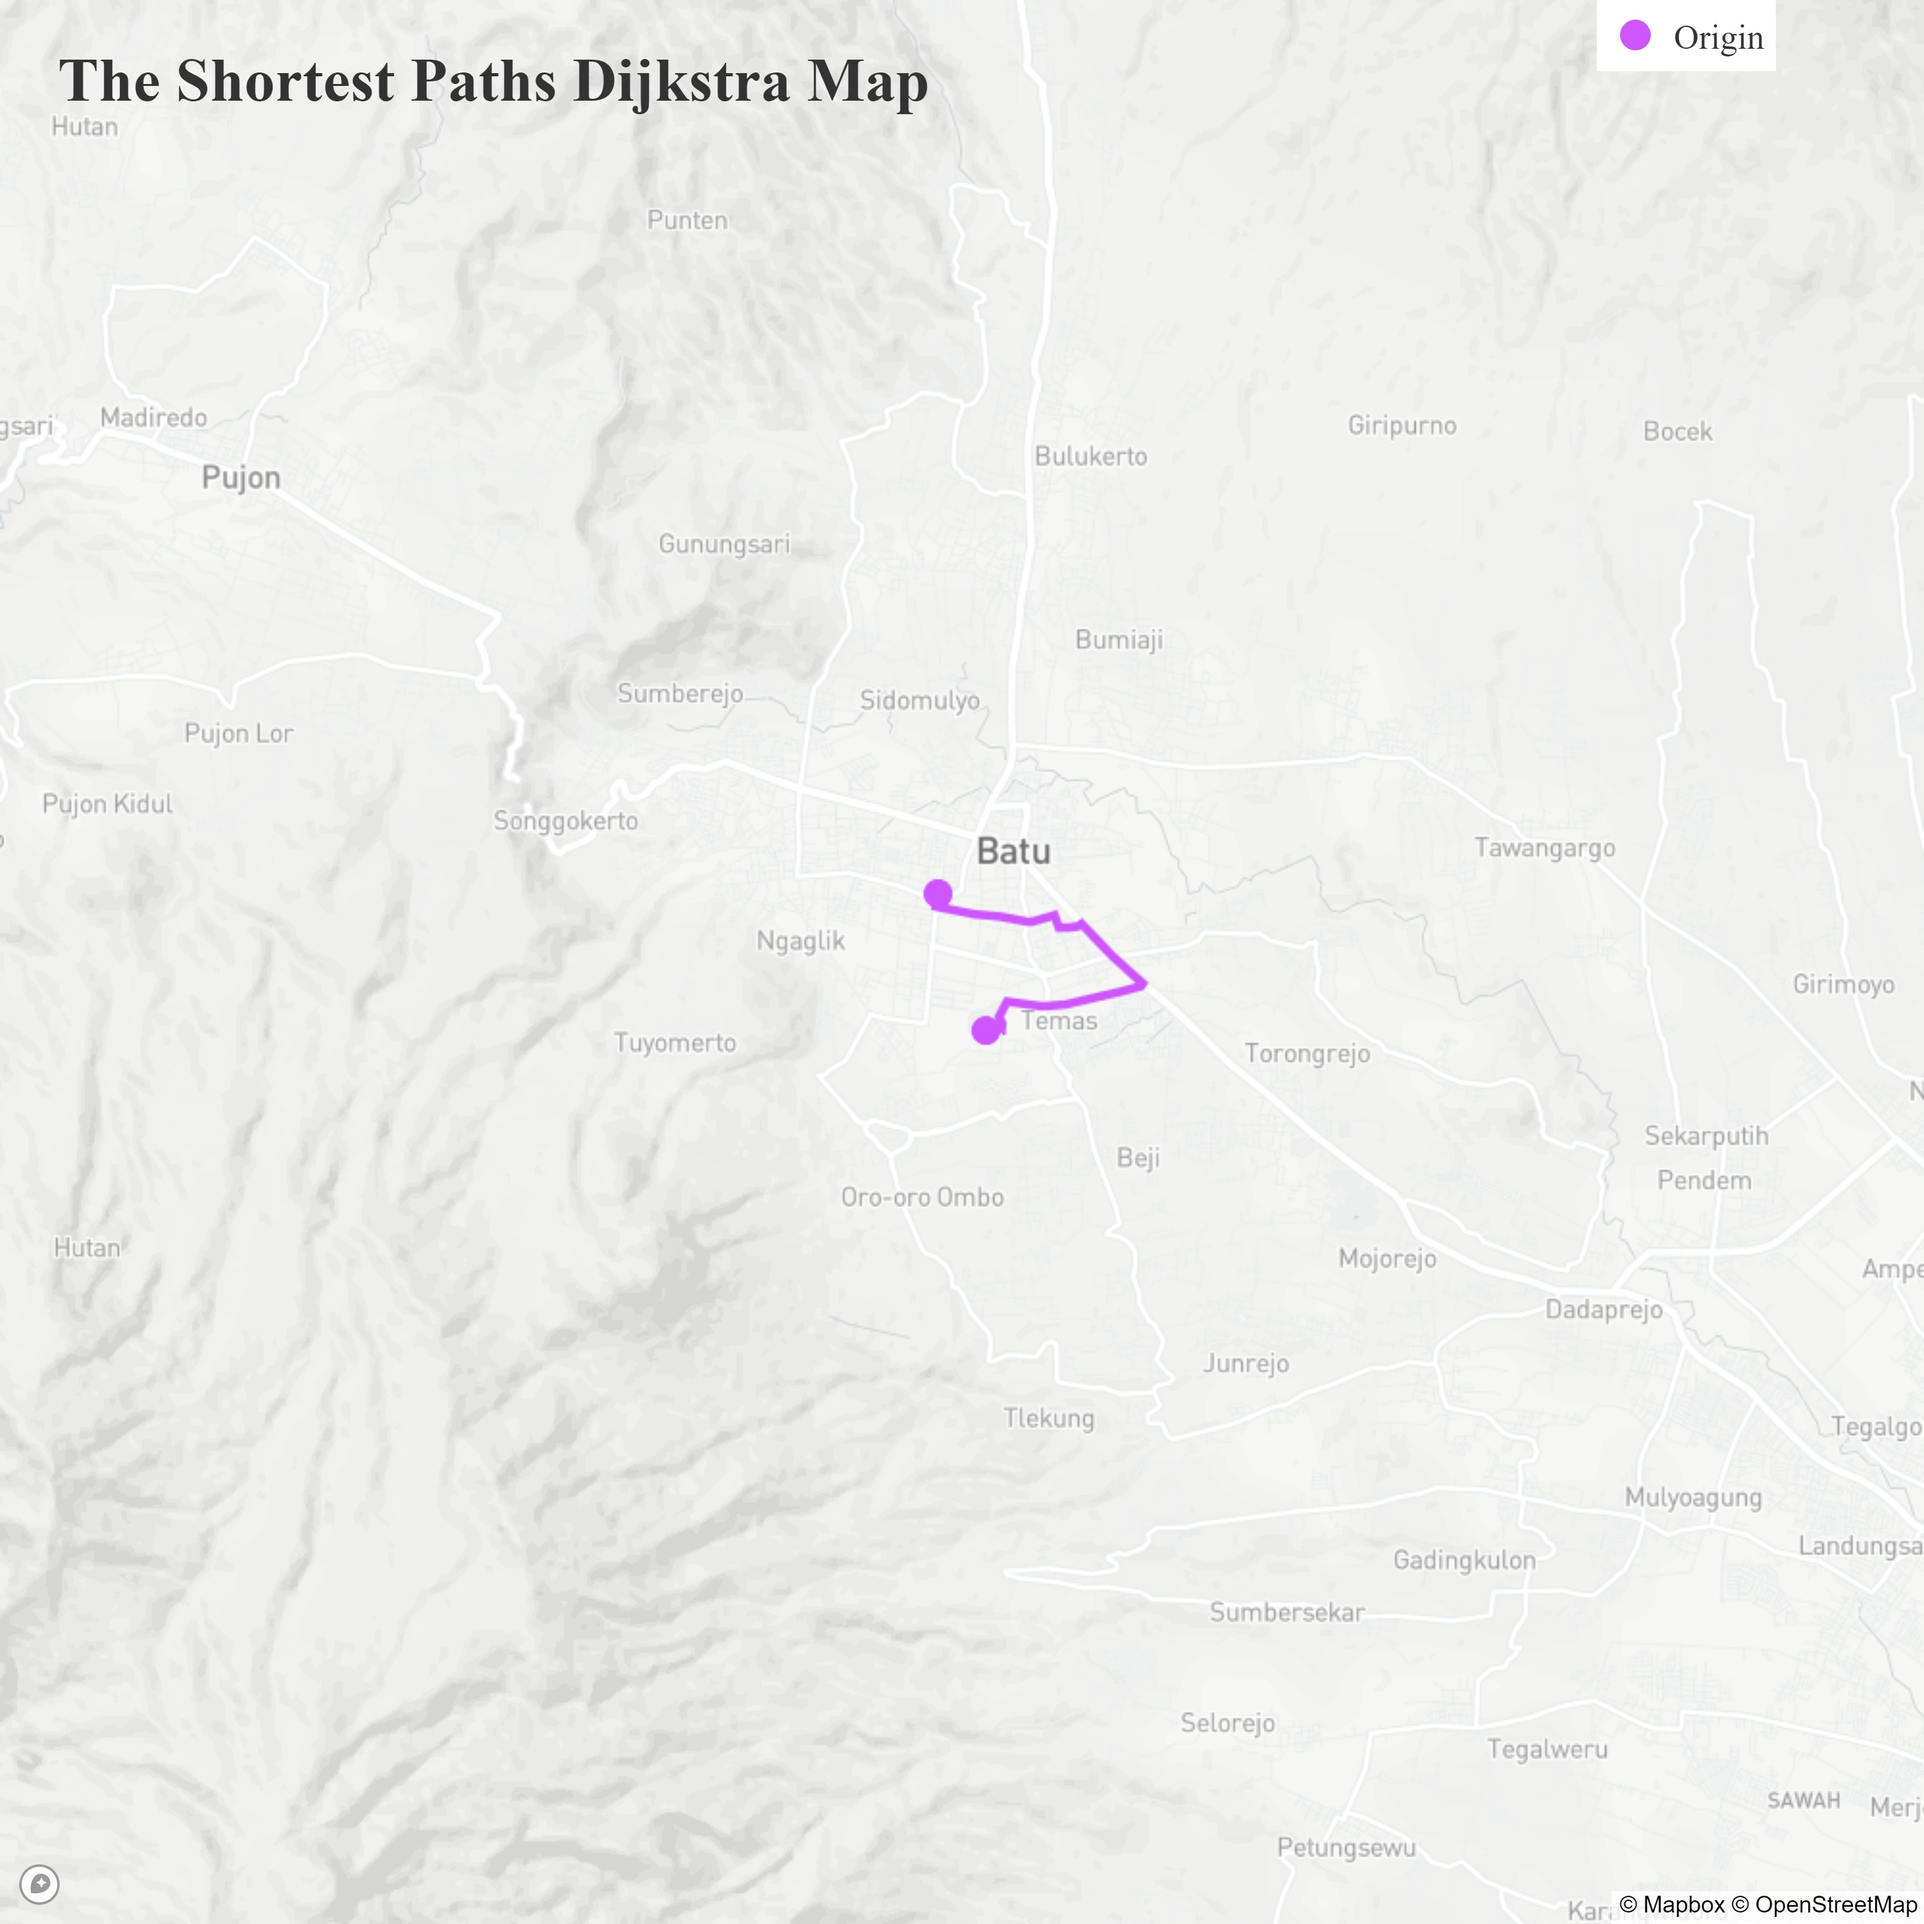
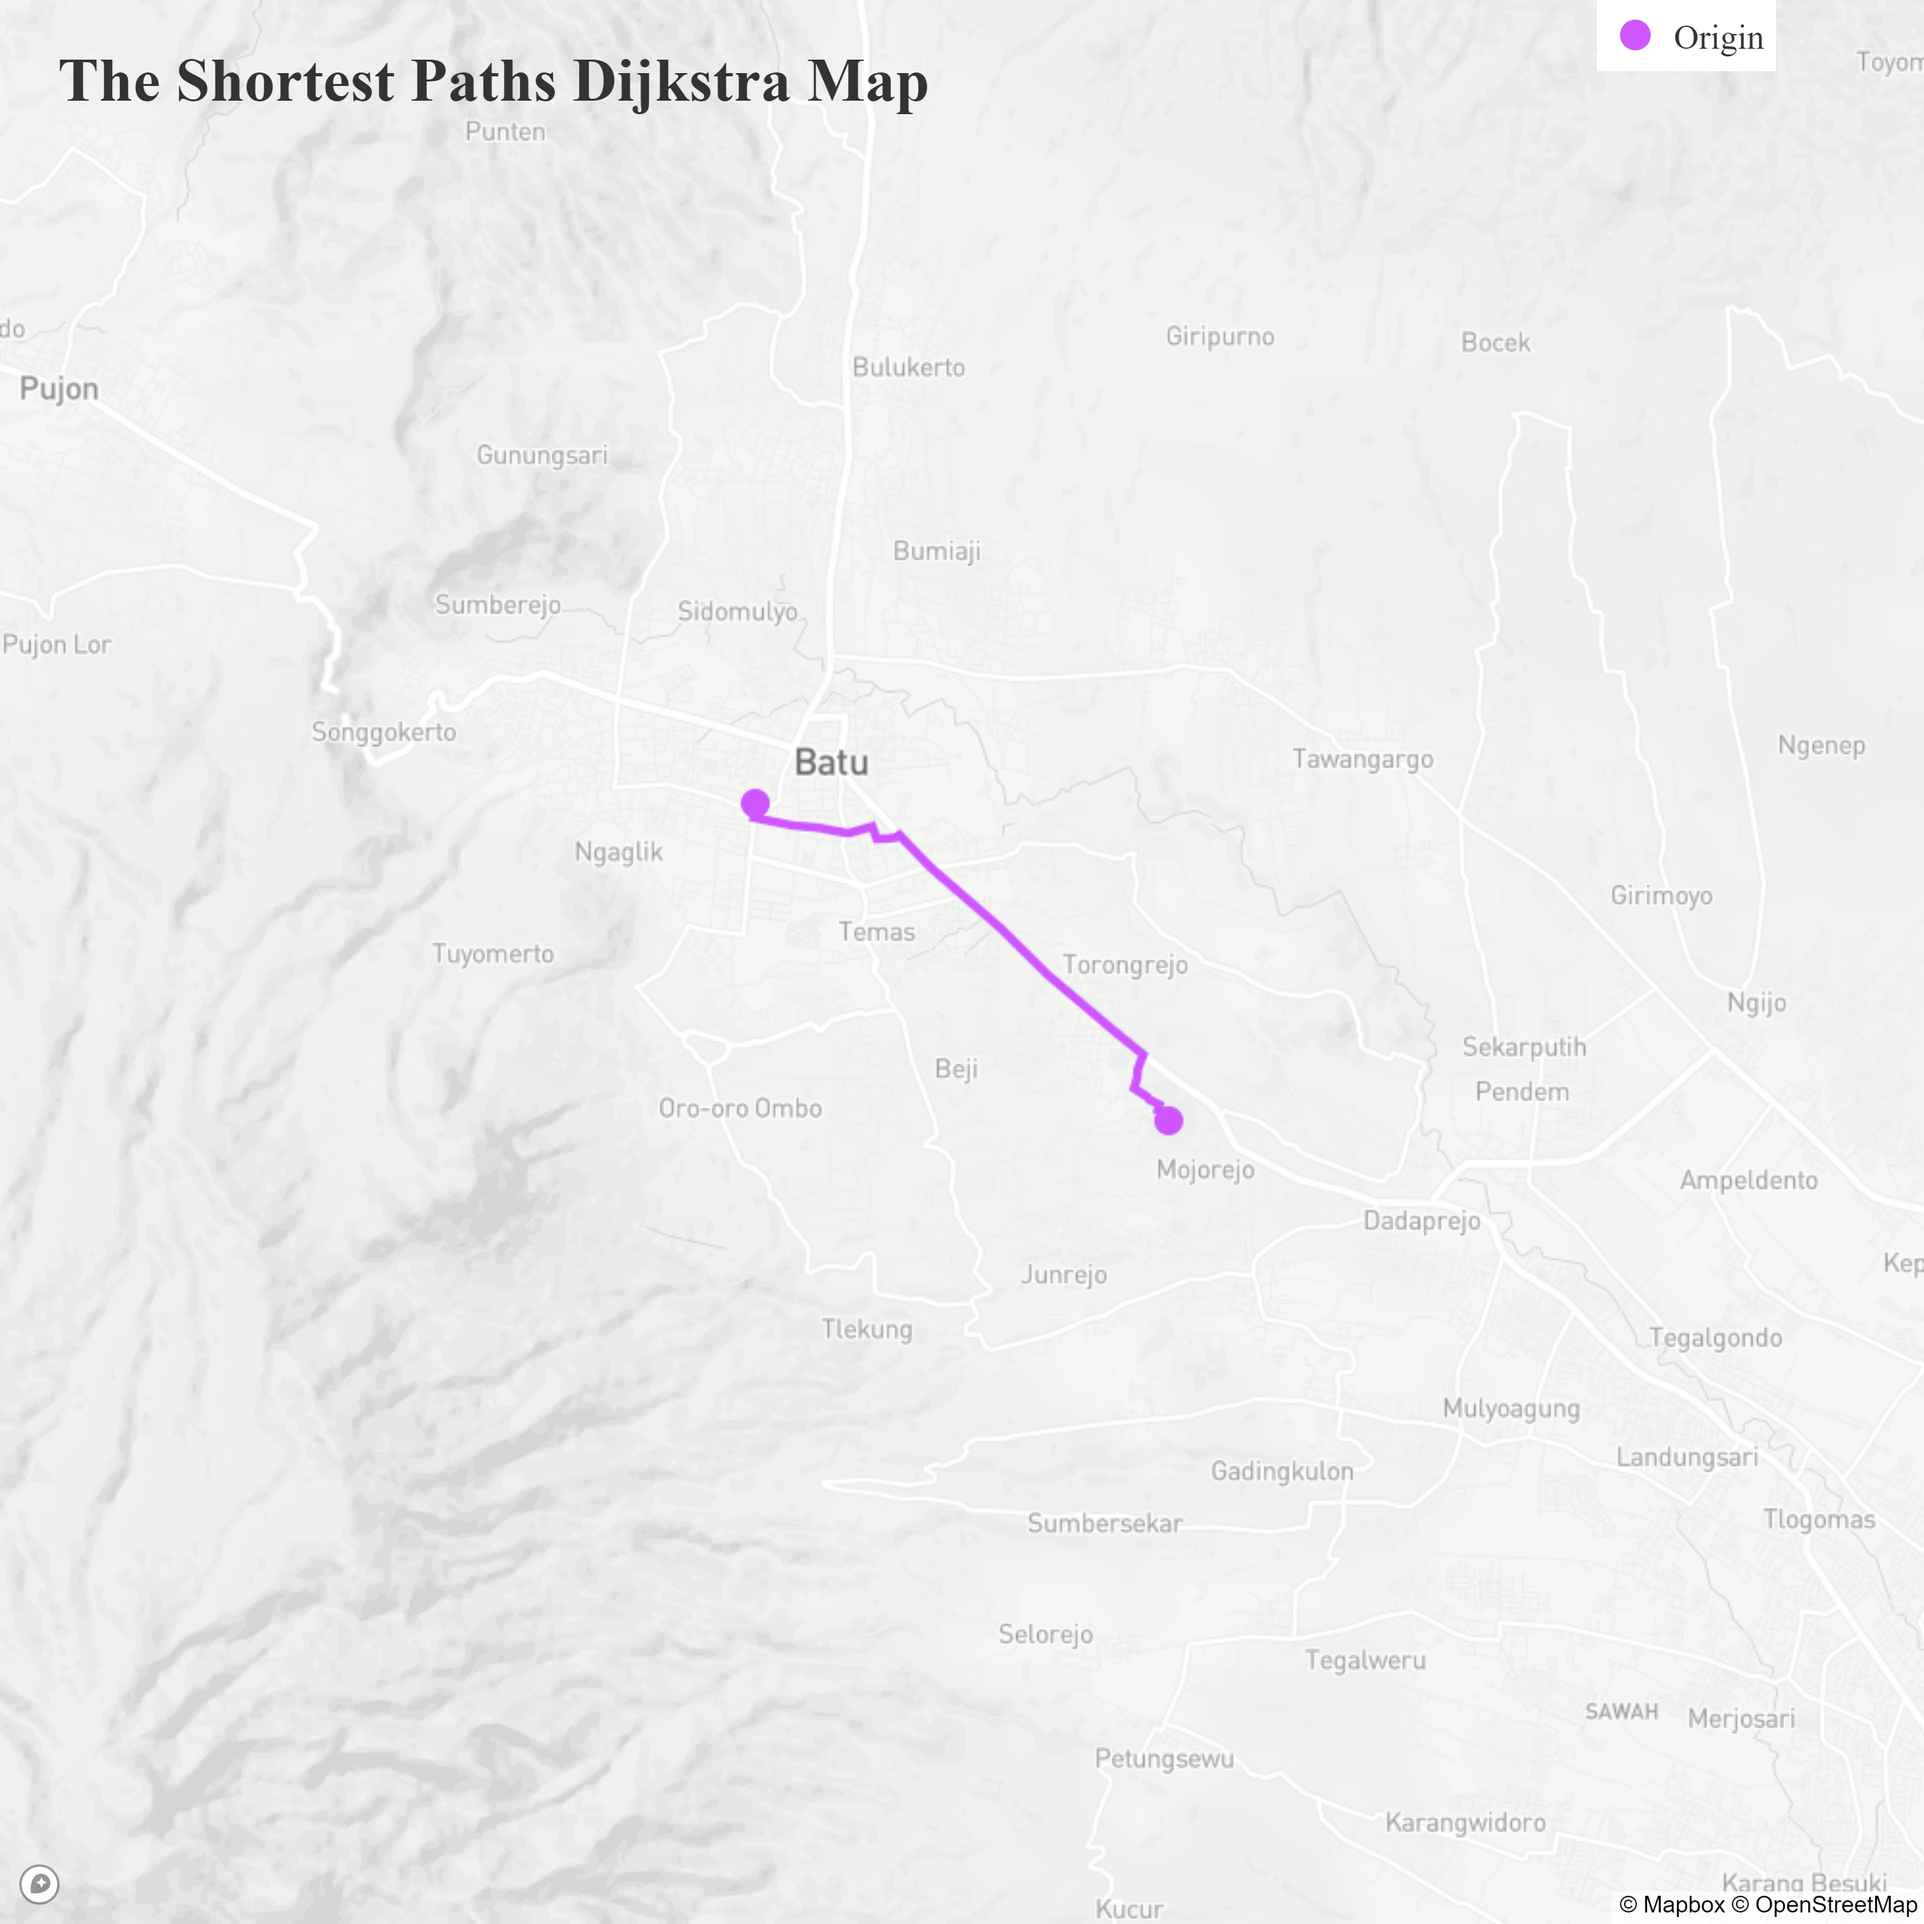
fix (algoritm) : optimize algoritm

diff --git a/dist/main.1f19ae8e.js b/dist/main.1f19ae8e.js
@@ -6315,7 +6315,7 @@ var parent = module.bundle.parent;
 if ((!parent || !parent.isParcelRequire) && typeof WebSocket !== 'undefined') {
   var hostname = "" || location.hostname;
   var protocol = location.protocol === 'https:' ? 'wss' : 'ws';
-  var ws = new WebSocket(protocol + '://' + hostname + ':' + "54758" + '/');
+  var ws = new WebSocket(protocol + '://' + hostname + ':' + "53635" + '/');
   ws.onmessage = function (event) {
     checkedAssets = {};
     assetsToAccept = [];

diff --git a/dist/index.js b/dist/index.js
@@ -193,7 +193,7 @@ var parent = module.bundle.parent;
 if ((!parent || !parent.isParcelRequire) && typeof WebSocket !== 'undefined') {
   var hostname = "" || location.hostname;
   var protocol = location.protocol === 'https:' ? 'wss' : 'ws';
-  var ws = new WebSocket(protocol + '://' + hostname + ':' + "54758" + '/');
+  var ws = new WebSocket(protocol + '://' + hostname + ':' + "53635" + '/');
   ws.onmessage = function (event) {
     checkedAssets = {};
     assetsToAccept = [];

diff --git a/server/algoritm.py b/server/algoritm.py
@@ -87,8 +87,8 @@ def generate_path(origin_point, target_point, perimeter):
     target_node = calculate_nearest_node(roadgraph, target_point[0], target_point[1])
     
     # This is the inbuild dijkstras function
-    #route = nx.shortest_path(roadgraph, origin_node, target_node, weight = 'length', method='dijkstra')
-    route = dijkstra_shortest_path(origin_node, target_node, roadgraph)
+    route = nx.shortest_path(roadgraph, origin_node, target_node, weight = 'length', method='dijkstra')
+    #route = dijkstra_shortest_path(origin_node, target_node, roadgraph)
 
     lat = []
     long = []
